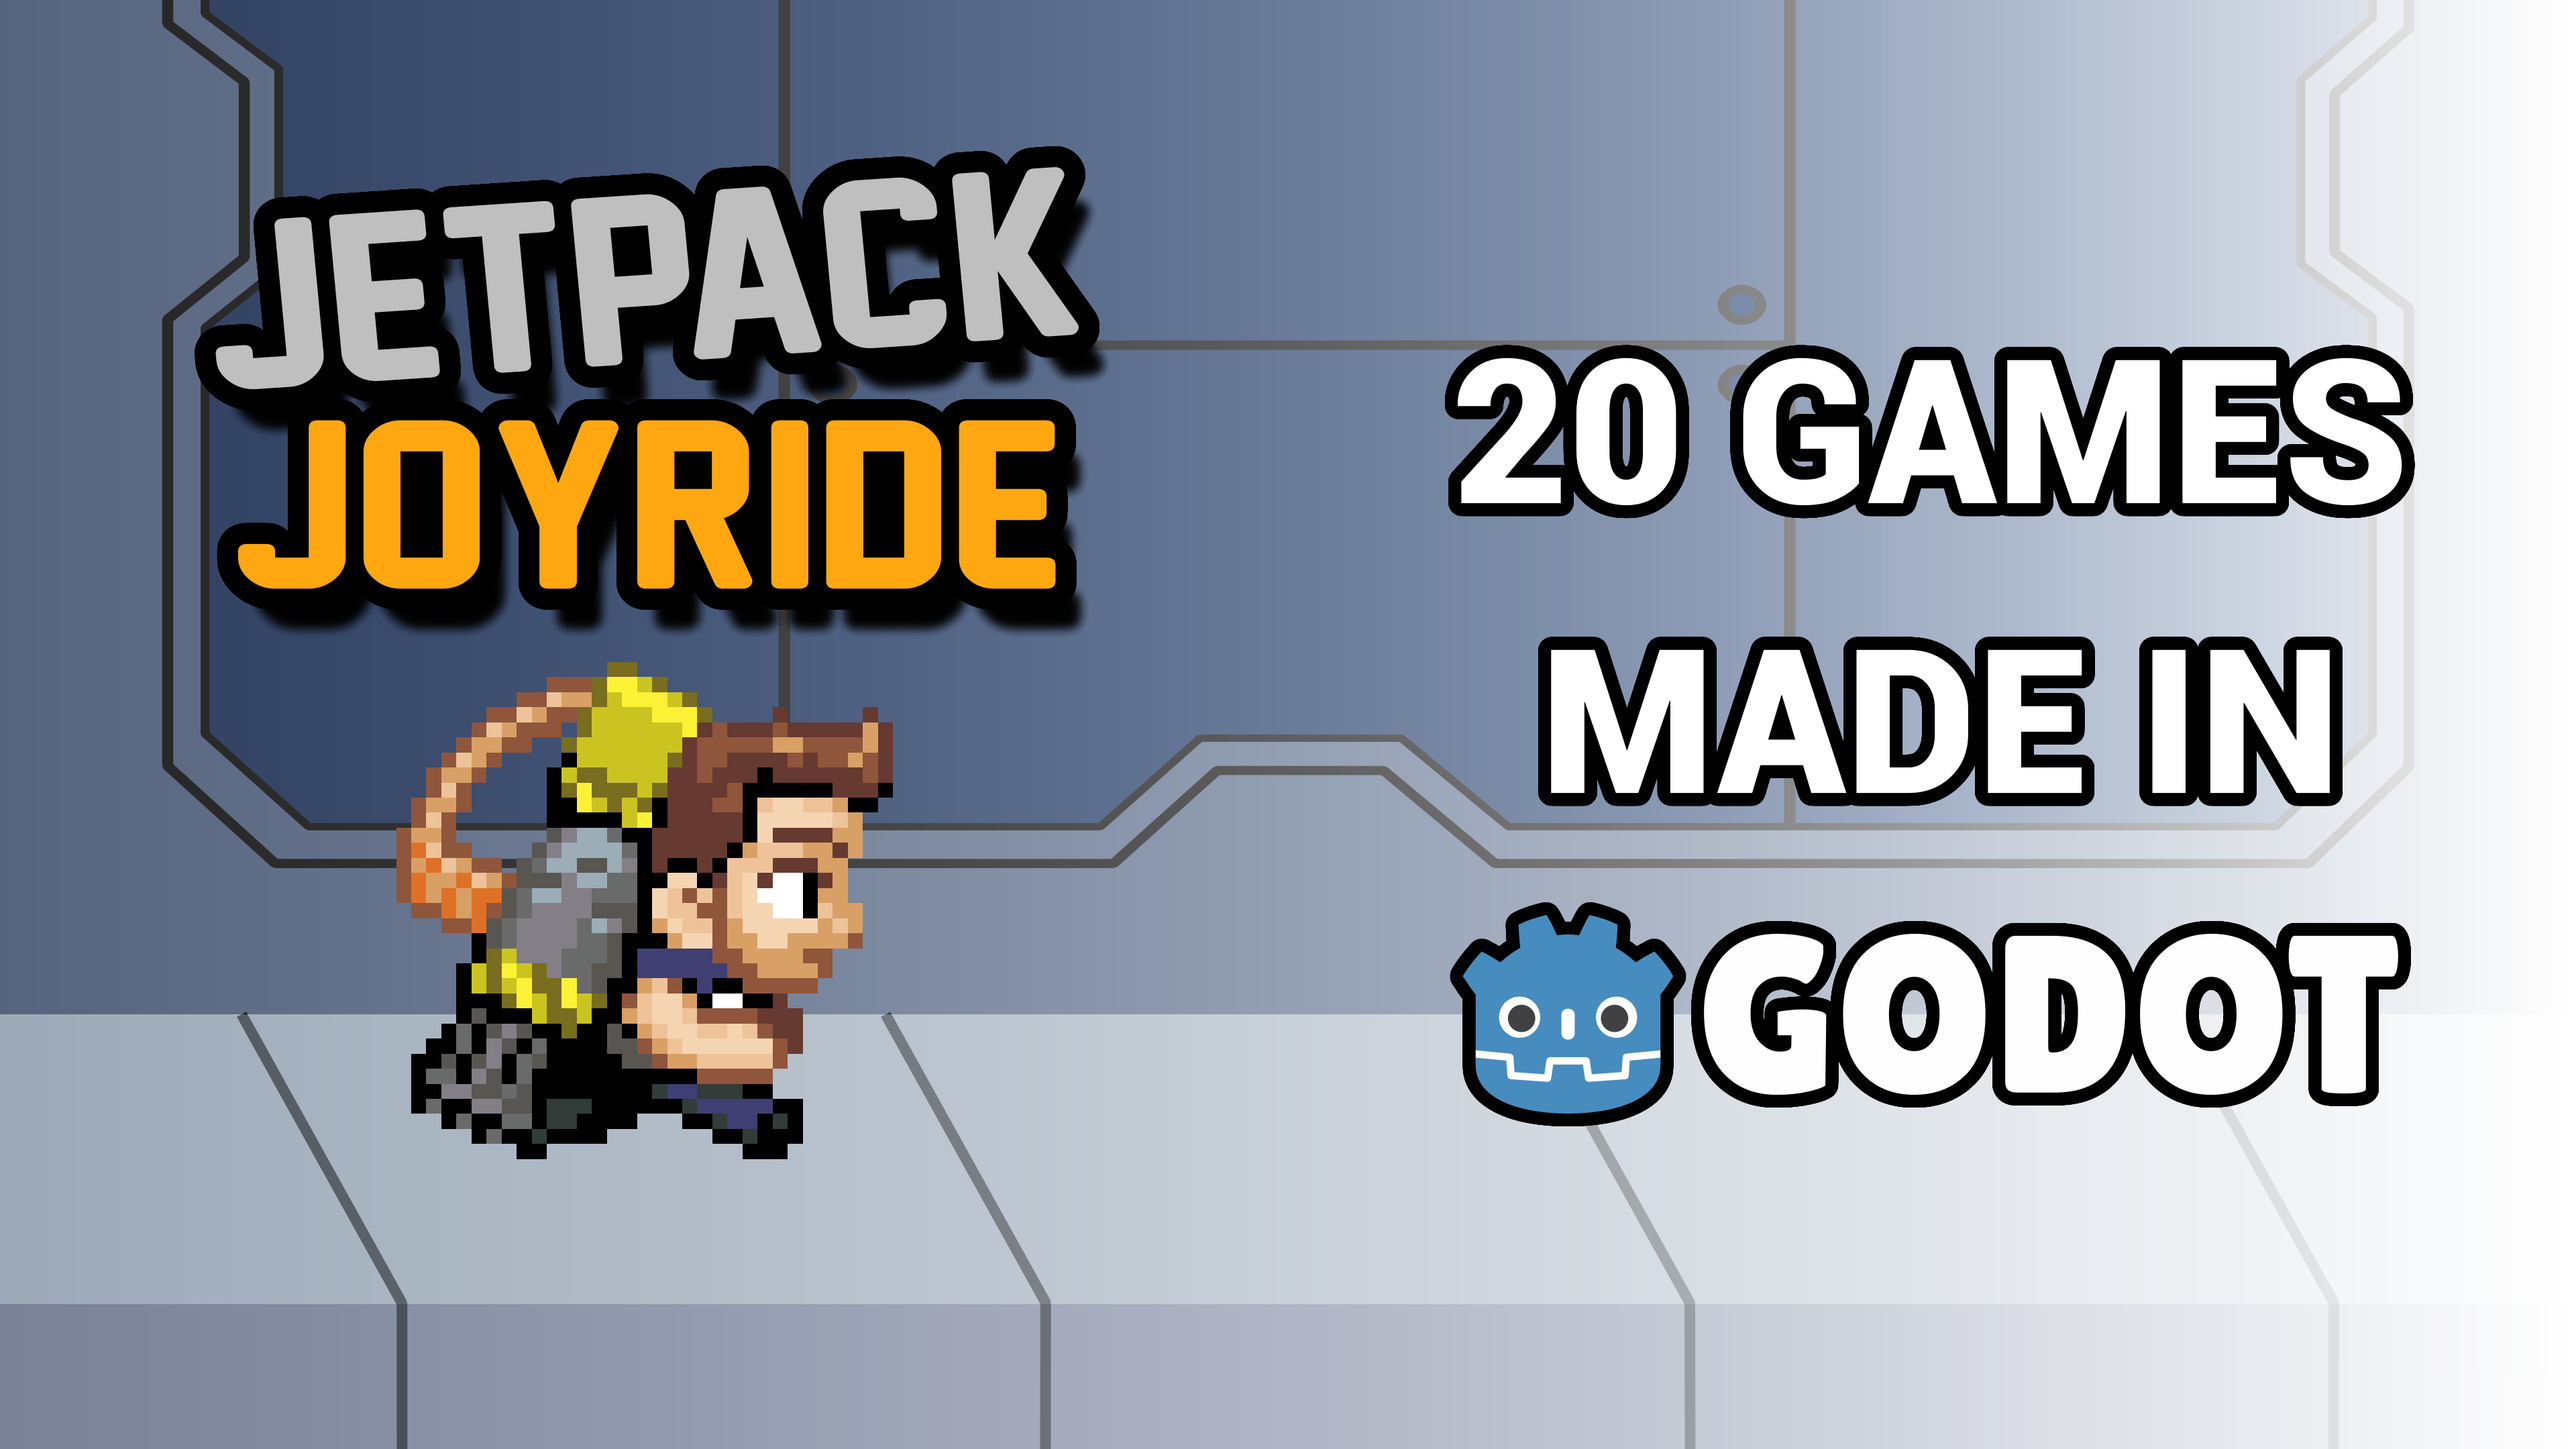
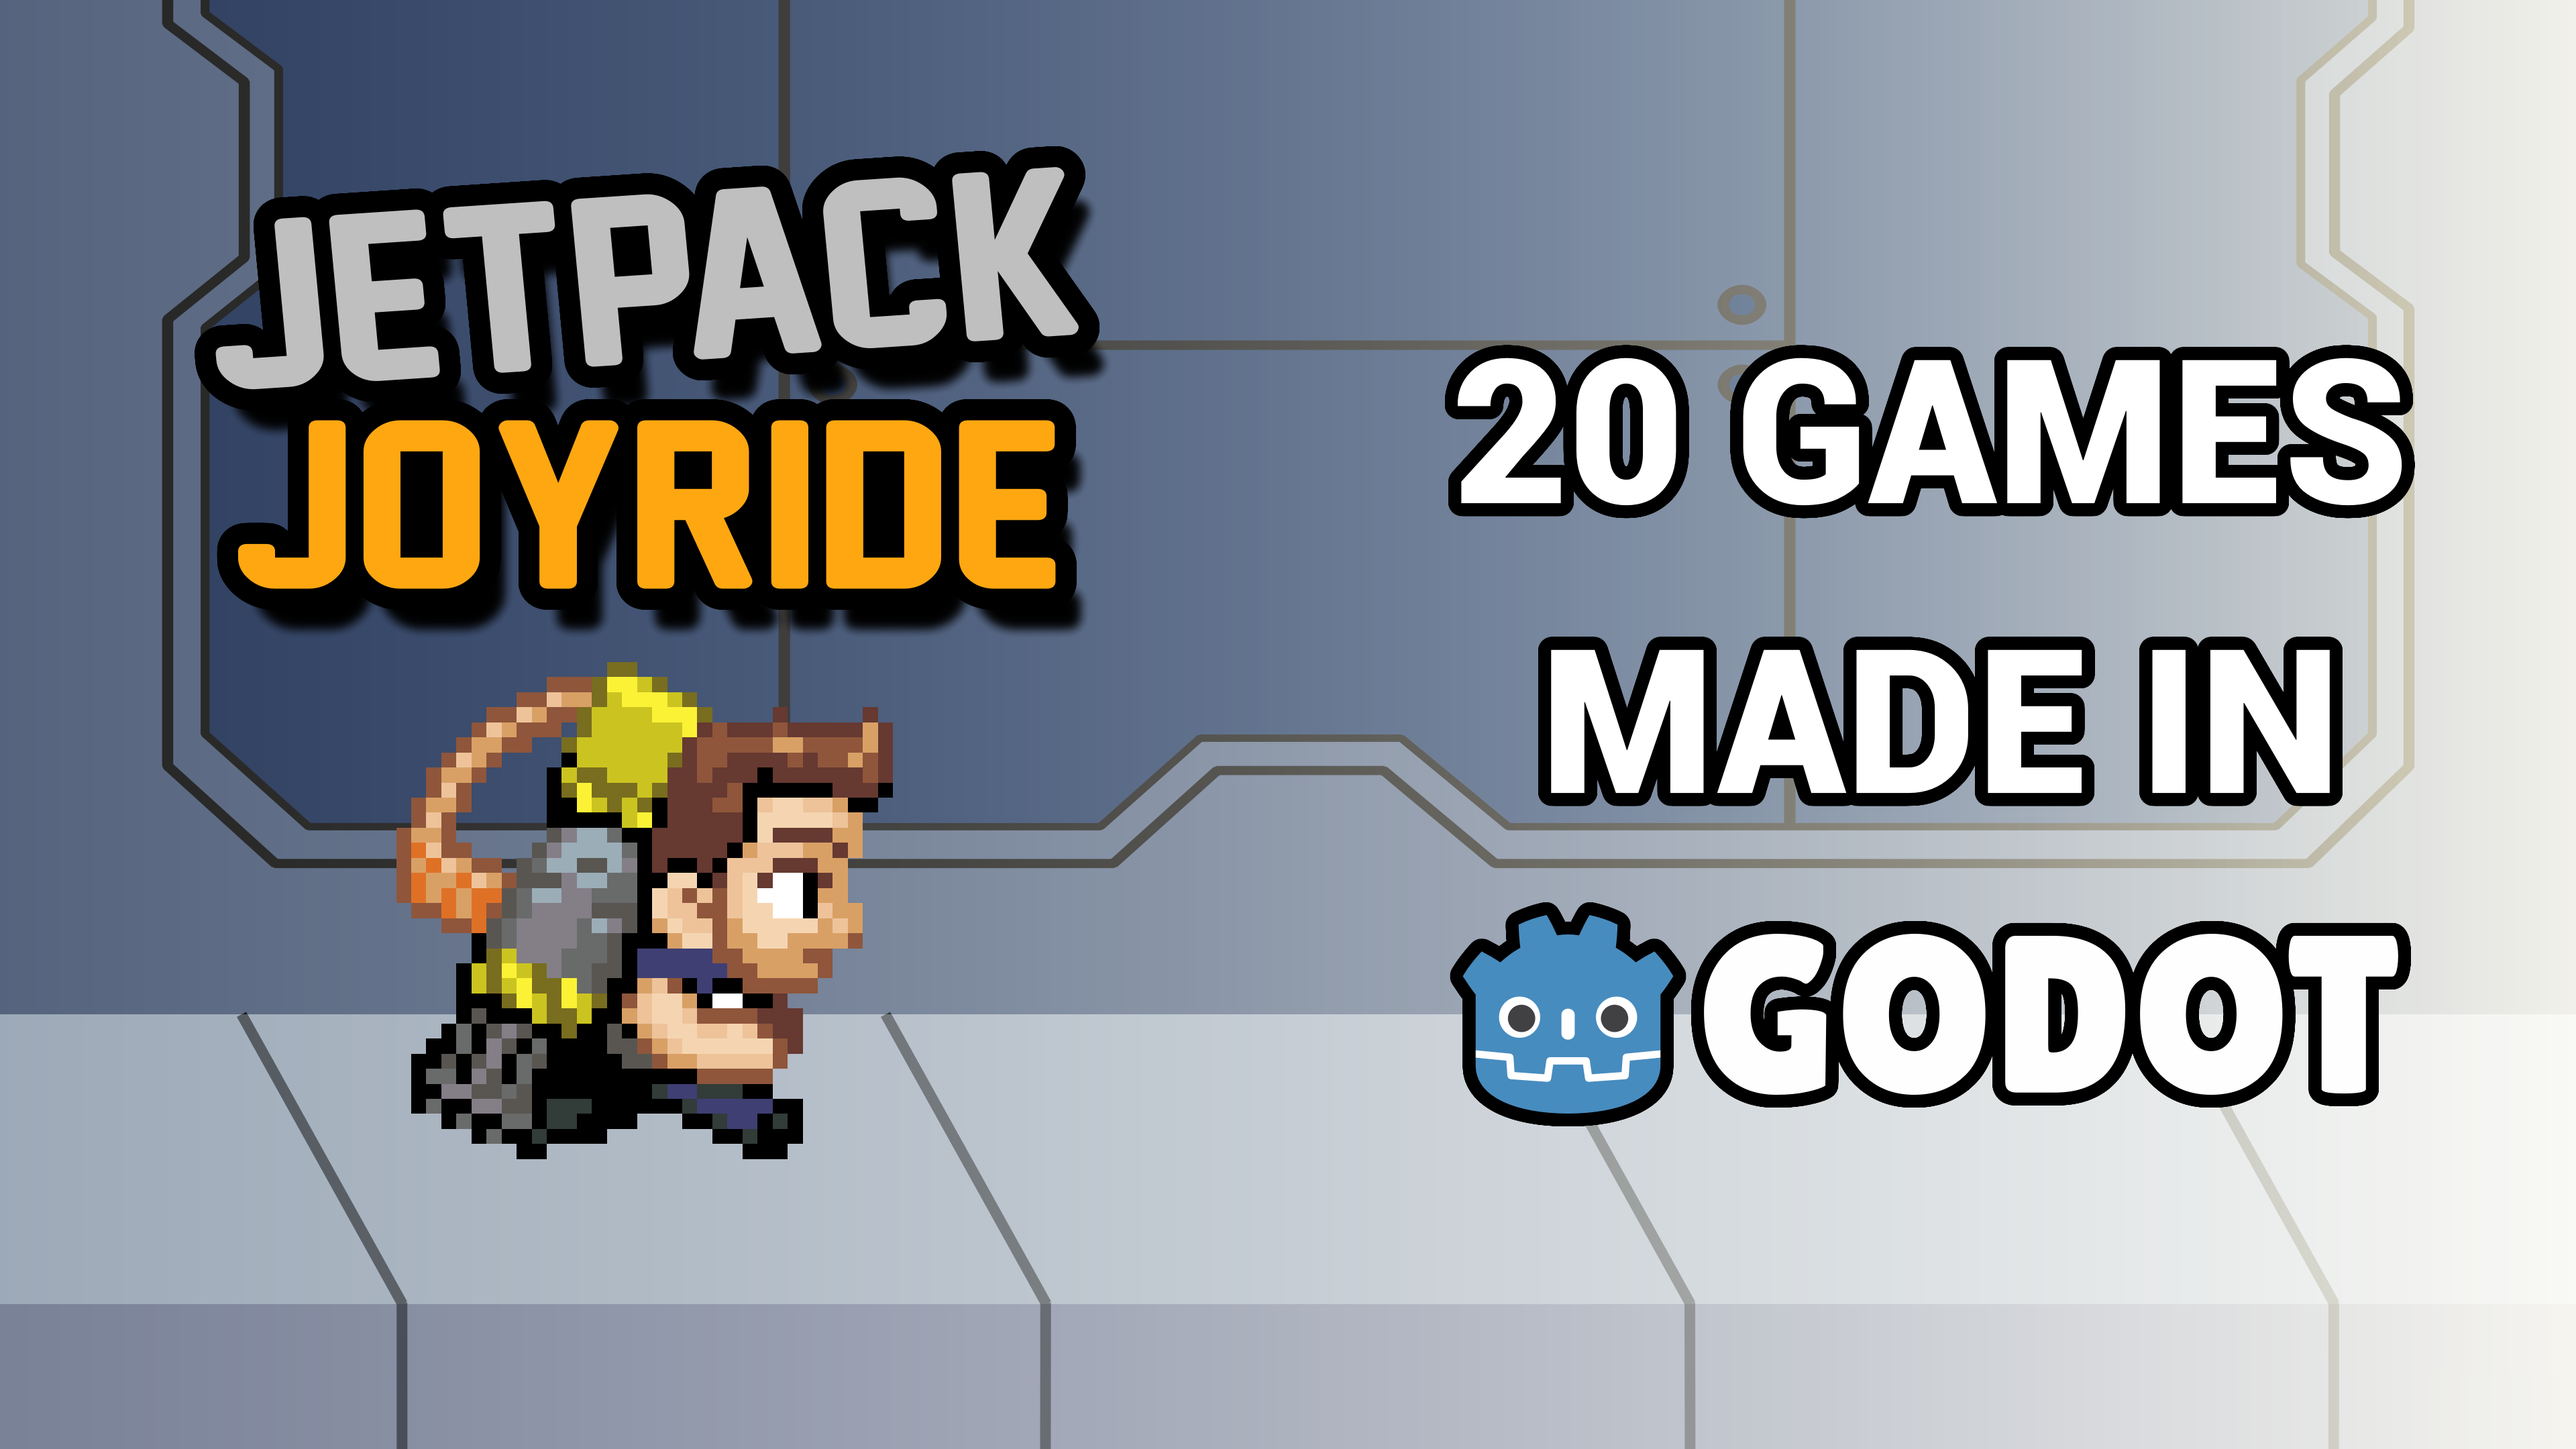
Adjust thumbnails a bit

Changed region(s): [[0.75, 0.3412, 0.9375, 0.6204], [0.875, 0.0, 0.9375, 0.2481], [0.875, 0.8685, 0.9062, 0.8995]]

diff --git a/video-production/making-jetpack-joyride/1.packaging.md b/video-production/making-jetpack-joyride/1.packaging.md
@@ -38,7 +38,7 @@
 
 ![2.1](./thumbnails/final/jetpack-joyride-thumbnail-2.1.png)
 ![3.1](./thumbnails/final/jetpack-joyride-thumbnail-3.1.png)
-![4.1](./thumbnails/final/jetpack-joyride-thumbnail-4.1.png)
+![4.1](./thumbnails/final/jetpack-joyride-thumbnail-4.2.png)
 ![5.1](./thumbnails/final/jetpack-joyride-thumbnail-5.1.png)
 
 ## Test T&T Combination
